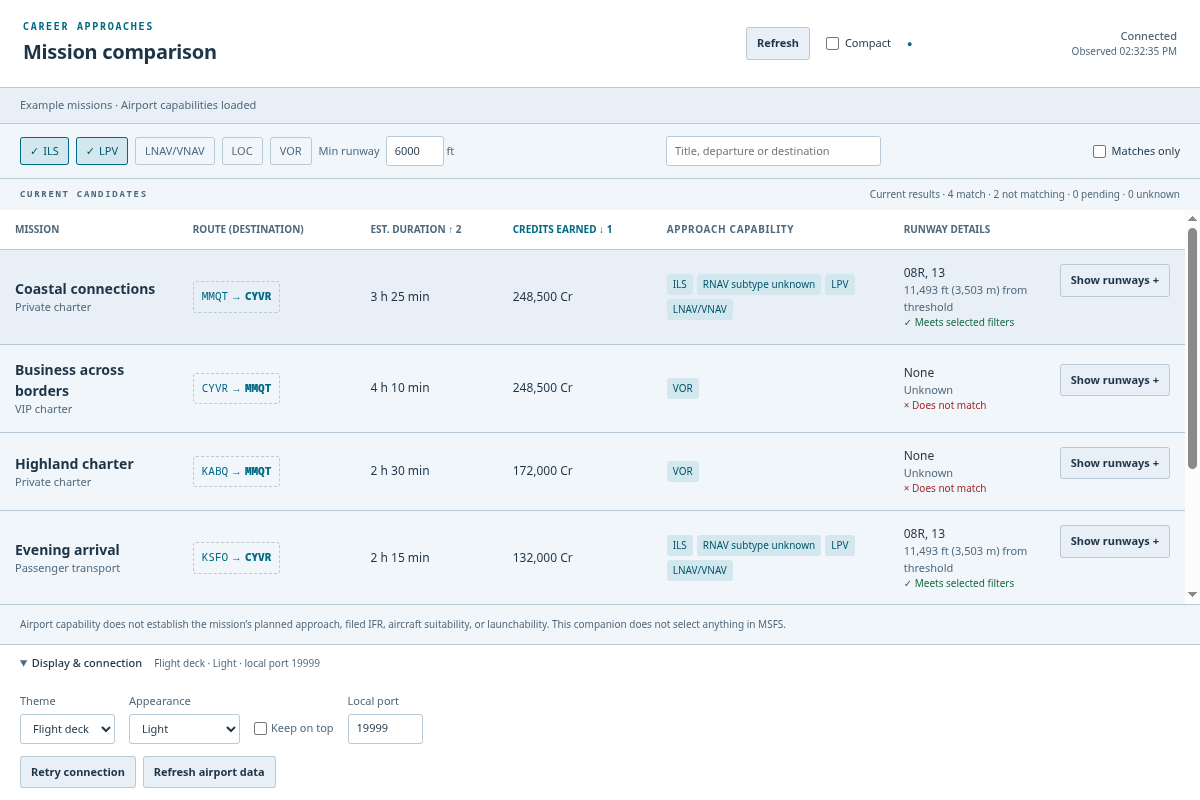
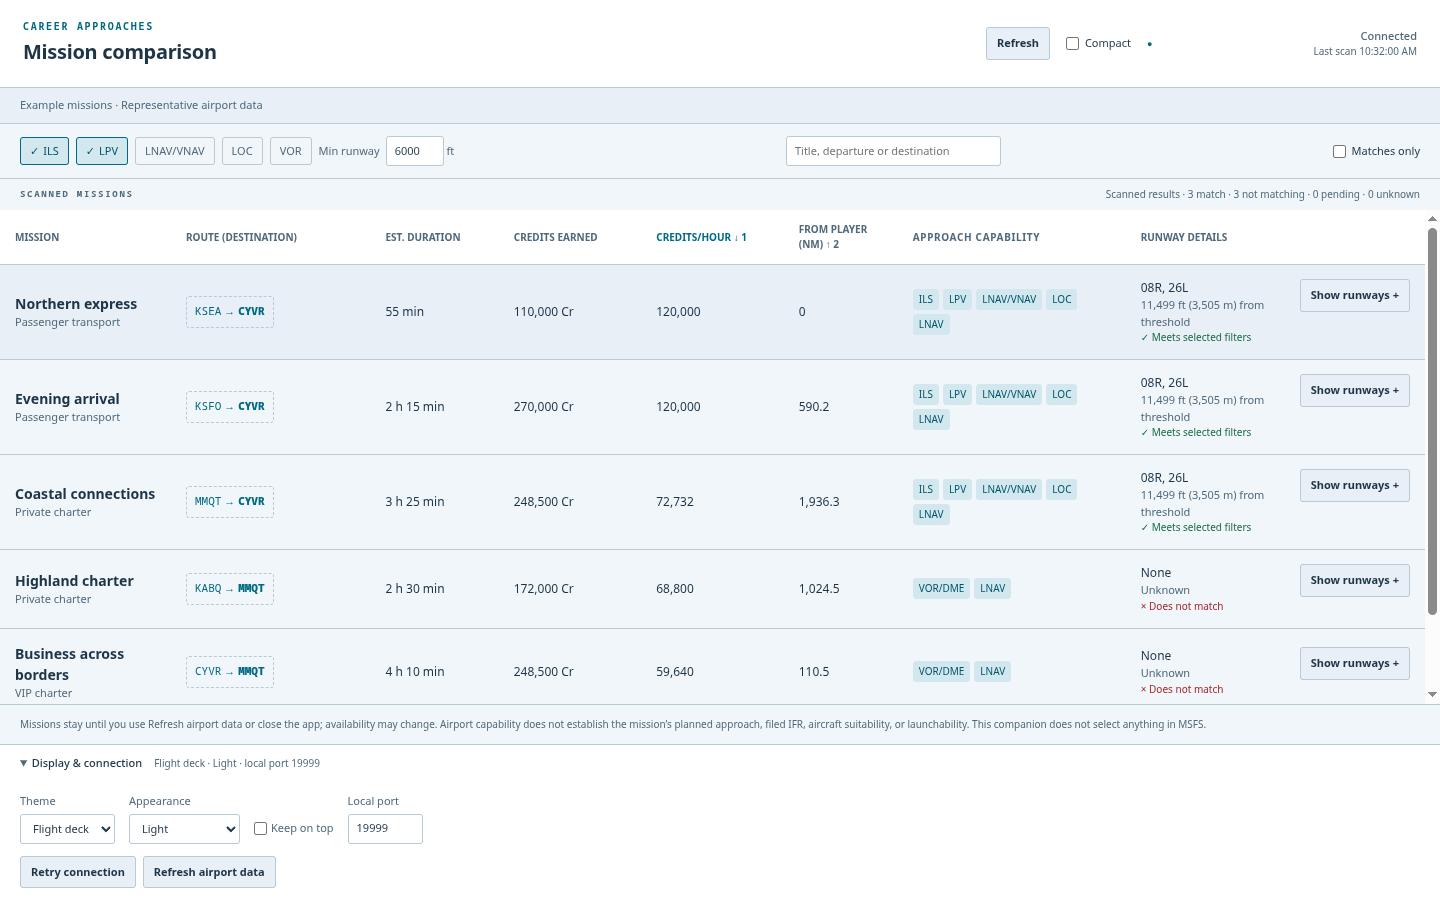
docs: refresh screenshots for current mission comparison UI

diff --git a/README.md b/README.md
@@ -6,19 +6,21 @@ Airport capability does not determine a mission's assigned approach or aircraft 
 
 ## Screenshots
 
-Screenshots show the actual app with example missions and representative airport data.
+Screenshots show v0.1.6 of the actual app with example missions and representative airport data.
 
-**Sort by what matters.** Click column headings to build an ordered sort: descending, ascending, then off. Numbered arrows show priority. Here, credits are sorted highest first, with shorter flights first when payouts tie. Approach and minimum-runway filters stay visible above the list.
+**Compare earnings and departure distance.** Click column headings to build an ordered sort: descending, ascending, then off. Numbered arrows show priority. Here, **Credits/hour** sorts estimated hourly earnings highest first, with **From player (NM)** putting nearer departures first when rates tie. Hourly earnings use advertised payout and estimated duration; distance is measured from the Career pilot’s current airport (KSEA in these examples) to the mission’s departure.
 
-![Flight deck in Night mode, sorting by credits descending then duration ascending](assets/screenshots/mission-sorting.png)
+![Flight deck in Night mode with Credits/hour descending as priority 1 and From player (NM) ascending as priority 2](assets/screenshots/mission-sorting.png)
+
+**Keep missions as you explore.** The Scanned missions list retains discoveries as you pan the Career map. Refresh adds or updates missions from the current area; Refresh airport data clears the collected list and cached airport details. Approach and minimum-runway filters stay visible above the list.
 
 **Find your mission on the map.** Hover a route to preview both airports; click to pin it while switching to MSFS. Focus on the departure or frame the whole route. Map data © [OpenStreetMap contributors](https://www.openstreetmap.org/copyright).
 
 ![Pinned route map showing departure at MMQT and destination at CYVR](assets/screenshots/mission-route-map.png)
 
-**Inspect individual runway ends.** Expand a mission to see physical and threshold-adjusted lengths, displaced thresholds, elevations, closure status, and available approaches.
+**Inspect individual runway ends.** Expand a mission to see physical and threshold-adjusted lengths, displaced thresholds, elevations, closure status, and available approaches. RNAV procedures distinguish LPV, LNAV/VNAV, LP and LNAV minima; circling procedures are labeled separately.
 
-![Expanded runway-end details with dimensions, elevations and ILS and RNAV approaches](assets/screenshots/runway-information.png)
+![Expanded CYVR runway ends with lengths, displaced thresholds, elevations, and ILS and RNAV minima including LPV, LNAV/VNAV and LNAV](assets/screenshots/runway-information.png)
 
 **Choose your look.** Flight deck, Field notes and Clear each support Light, Night, or following your system appearance. Display controls also include Compact and supported keep-on-top behavior.
 
